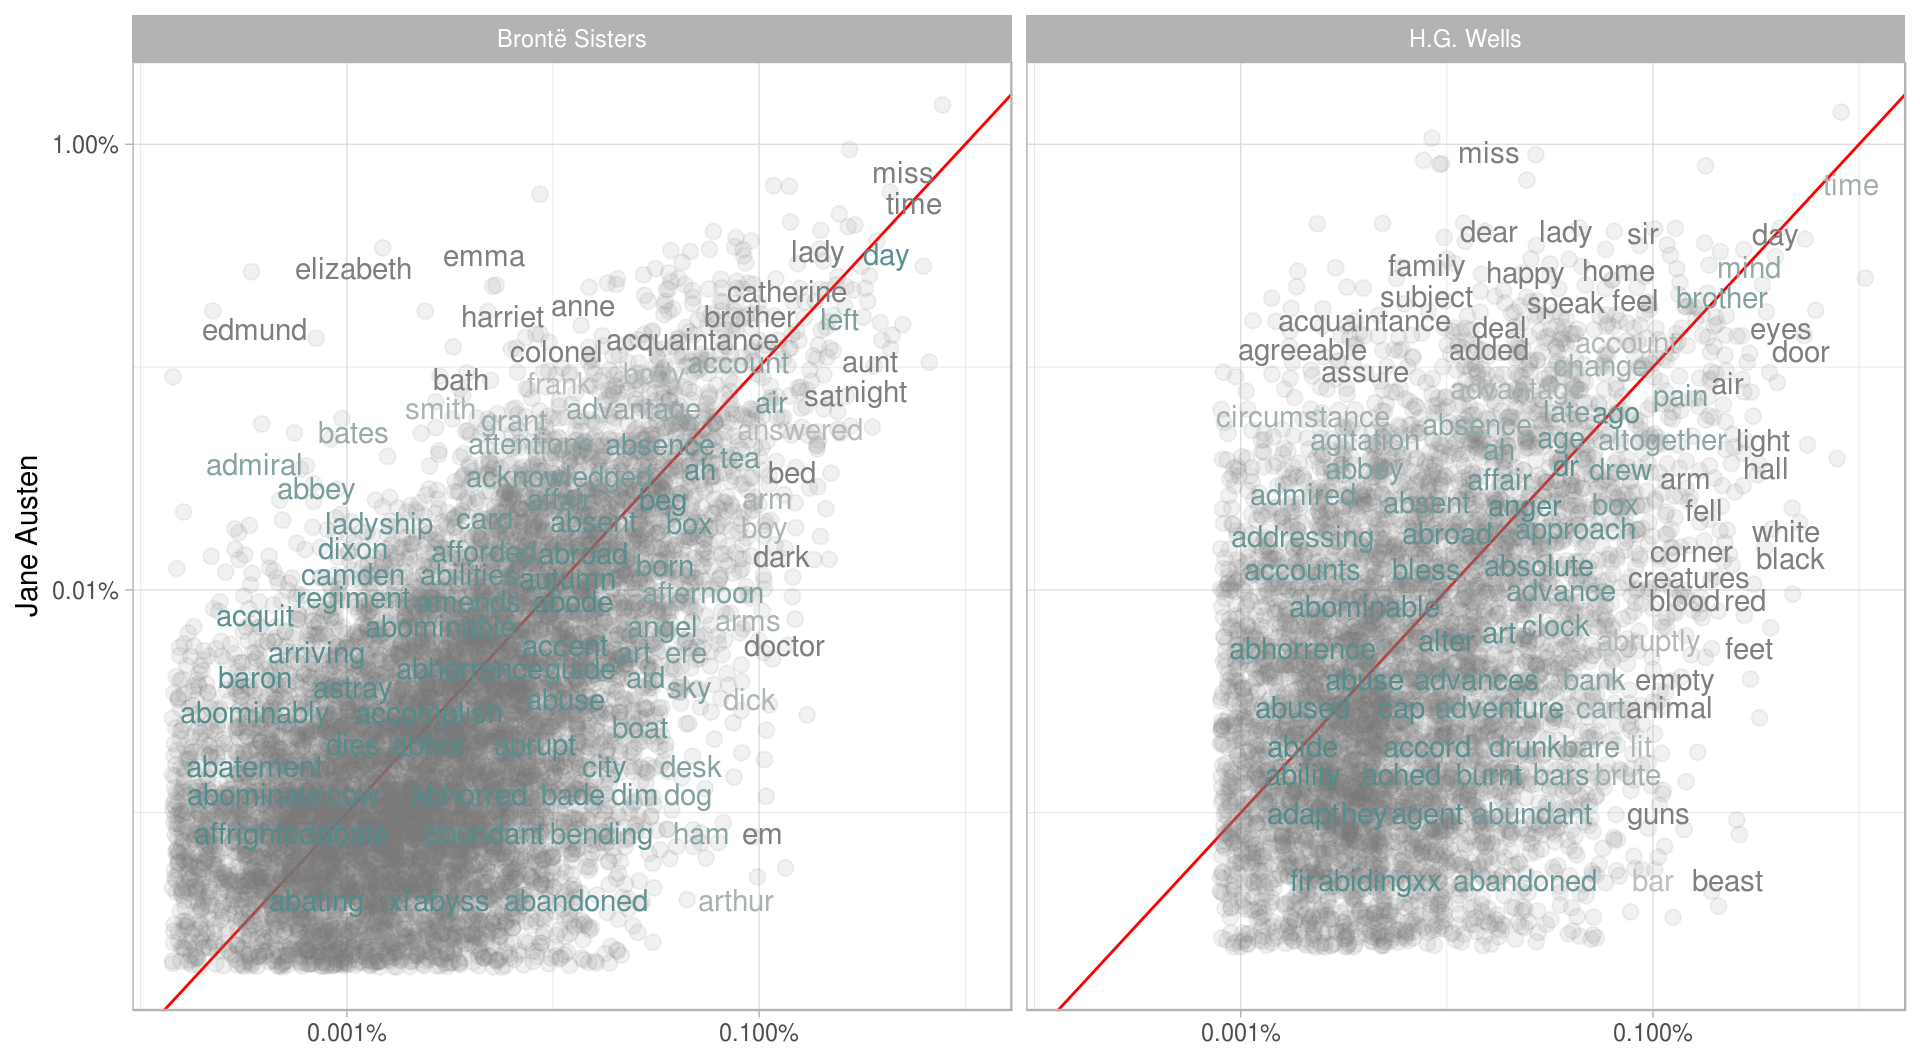
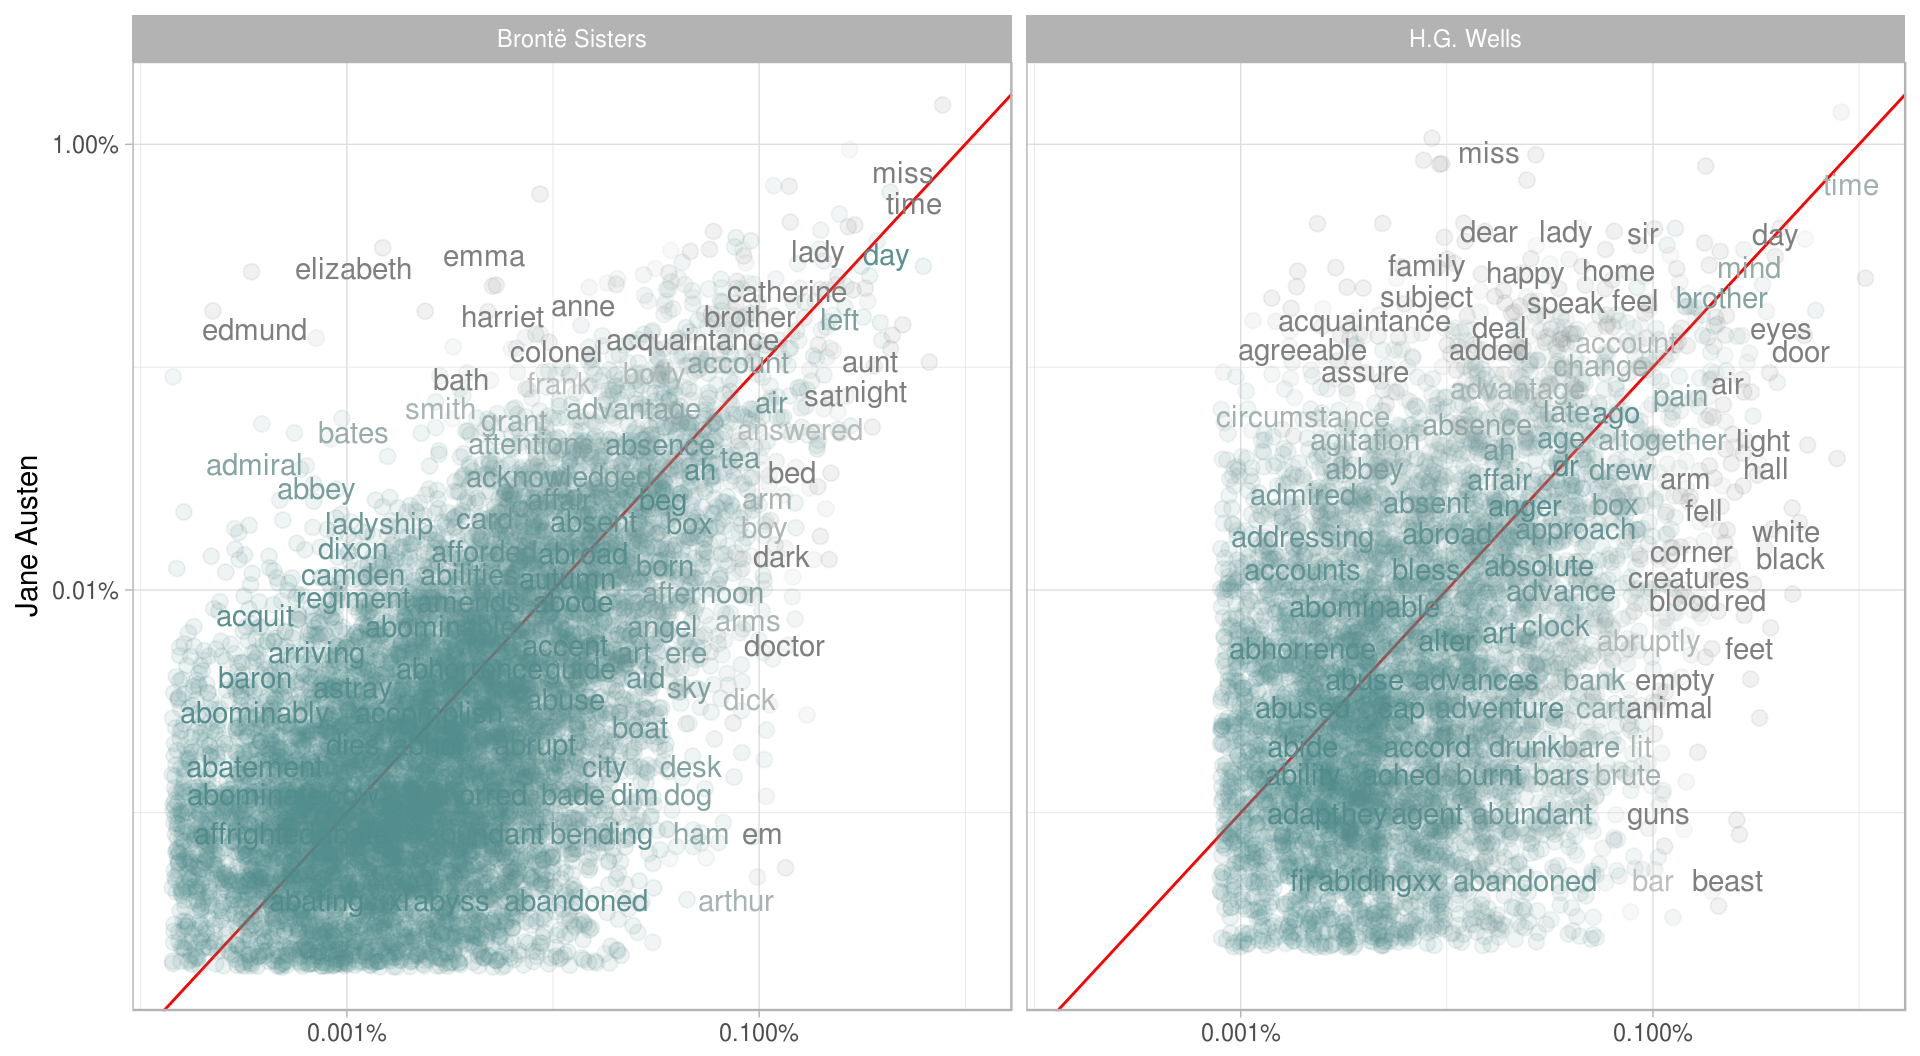
Updating book (75)

Changed region(s): [[0.0938, 0.4688, 0.3438, 0.9375], [0.625, 0.5312, 0.7812, 0.9062]]

diff --git a/tidytext.html b/tidytext.html
@@ -415,8 +415,7 @@ frequency &lt;-<span class="st"> </span>tidy_both %&gt;%
 <div class="sourceCode"><pre class="sourceCode r"><code class="sourceCode r"><span class="kw">library</span>(scales)
 <span class="kw">ggplot</span>(frequency, <span class="kw">aes</span>(<span class="dt">x =</span> other, <span class="dt">y =</span> Austen, <span class="dt">color =</span> <span class="kw">abs</span>(Austen -<span class="st"> </span>other))) +
 <span class="st">  </span><span class="kw">geom_abline</span>(<span class="dt">color =</span> <span class="st">&quot;red&quot;</span>) +
-<span class="st">  </span><span class="kw">geom_jitter</span>(<span class="dt">alpha =</span> <span class="fl">0.1</span>, <span class="dt">size =</span> <span class="fl">2.5</span>, <span class="dt">color =</span> <span class="st">&quot;gray50&quot;</span>,
-              <span class="dt">width =</span> <span class="fl">0.4</span>, <span class="dt">height =</span> <span class="fl">0.4</span>) +
+<span class="st">  </span><span class="kw">geom_jitter</span>(<span class="dt">alpha =</span> <span class="fl">0.1</span>, <span class="dt">size =</span> <span class="fl">2.5</span>, <span class="dt">width =</span> <span class="fl">0.4</span>, <span class="dt">height =</span> <span class="fl">0.4</span>) +
 <span class="st">  </span><span class="kw">geom_text</span>(<span class="kw">aes</span>(<span class="dt">label =</span> word), <span class="dt">check_overlap =</span> <span class="ot">TRUE</span>, <span class="dt">vjust =</span> <span class="fl">1.5</span>) +
 <span class="st">  </span><span class="kw">scale_x_log10</span>(<span class="dt">labels =</span> <span class="kw">percent_format</span>()) +
 <span class="st">  </span><span class="kw">scale_y_log10</span>(<span class="dt">labels =</span> <span class="kw">percent_format</span>()) +

diff --git a/02-tidy-text.md b/02-tidy-text.md
@@ -323,8 +323,7 @@ We use `str_extract` here because the UTF-8 encoded texts from Project Gutenberg
 library(scales)
 ggplot(frequency, aes(x = other, y = Austen, color = abs(Austen - other))) +
   geom_abline(color = "red") +
-  geom_jitter(alpha = 0.1, size = 2.5, color = "gray50",
-              width = 0.4, height = 0.4) +
+  geom_jitter(alpha = 0.1, size = 2.5, width = 0.4, height = 0.4) +
   geom_text(aes(label = word), check_overlap = TRUE, vjust = 1.5) +
   scale_x_log10(labels = percent_format()) +
   scale_y_log10(labels = percent_format()) +
